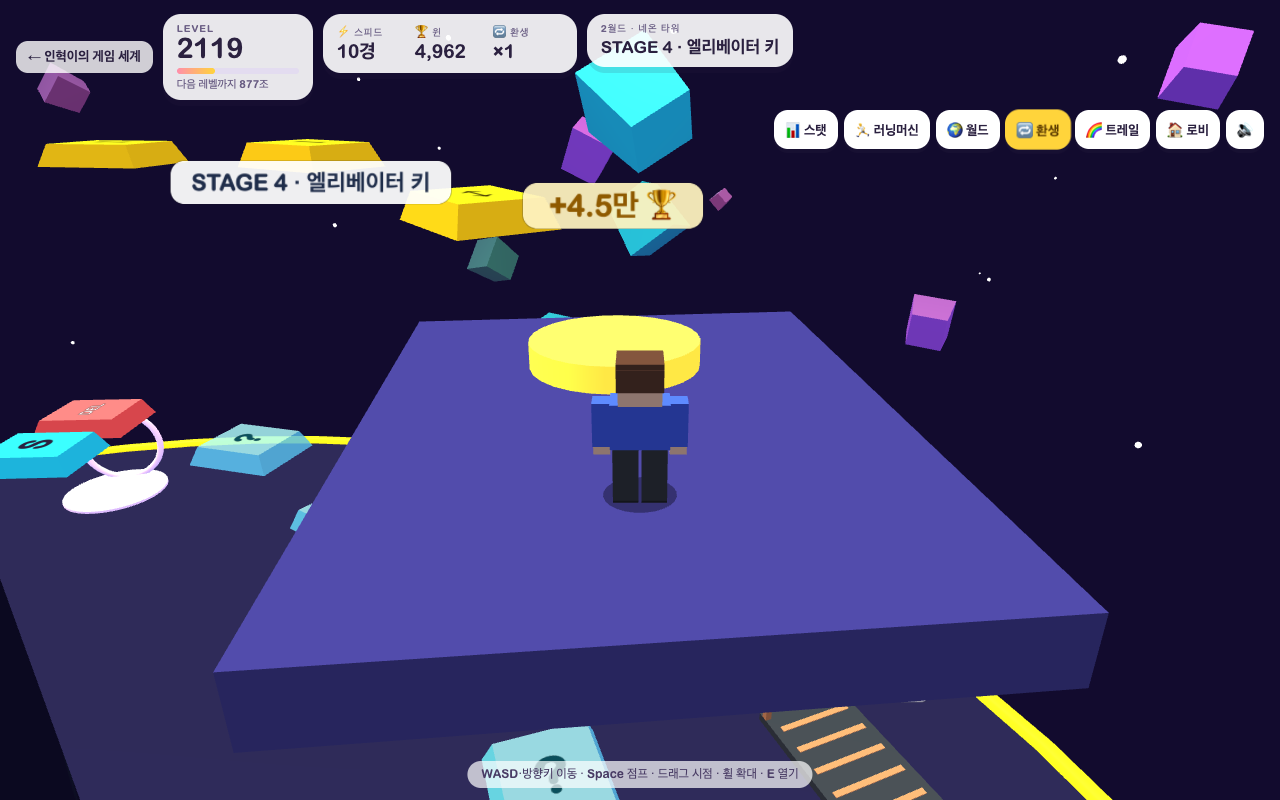
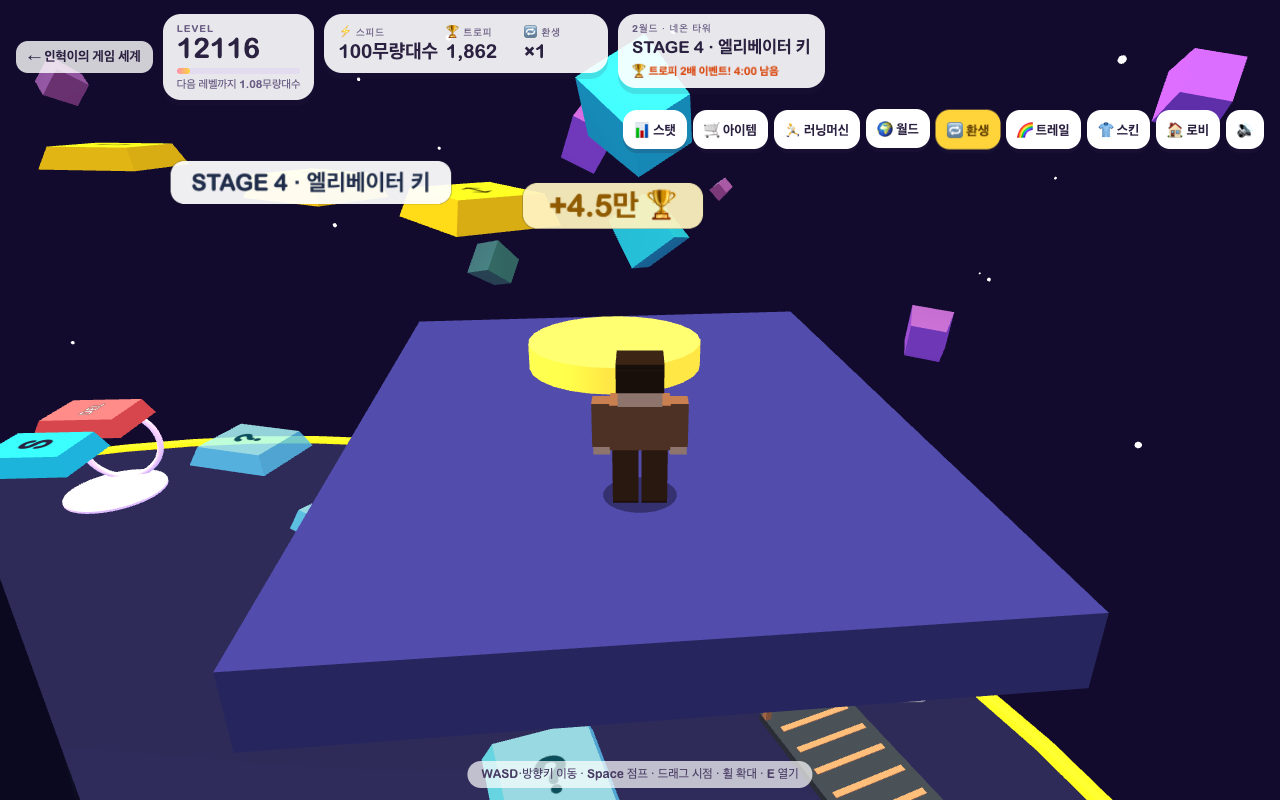
feat: 키캡 타워 업그레이드 — 50월드, 아이템 상점, 스킨, 트로피 2배 이벤트, 광고

diff --git a/games/keycap-tower/main.js b/games/keycap-tower/main.js
@@ -1,5 +1,5 @@
 import './style.css';
-import {WORLDS,STATS,TRAILS,MAX_REBIRTH,getWorld,restore,serialize,fresh,step,respawn,toLobby,warpStage,enterWorld,buyStat,buyTread,buyTrail,rebirth,canRebirth,rebirthReq,rebirthMult,globalMult,stepPower,treadRate,ownsTread,levelOf,needSpeed,runSpeed,onPath,pathS,buttonWait,fmt} from './core.mjs';
+import {WORLDS,STATS,TRAILS,ITEMS,SKINS,MAX_REBIRTH,eventInfo,buyItem,buySkin,itemMult,getWorld,restore,serialize,fresh,step,respawn,toLobby,warpStage,enterWorld,buyStat,buyTread,buyTrail,rebirth,canRebirth,rebirthReq,rebirthMult,globalMult,stepPower,treadRate,ownsTread,levelOf,needSpeed,runSpeed,onPath,pathS,buttonWait,fmt} from './core.mjs';
 import {createWorld} from './world.mjs';
 const $=id=>document.getElementById(id);
 const KEY='keycap-tower-v1';
@@ -9,7 +9,7 @@ let world;
 try{world=createWorld(canvas);}catch(error){$('resume-note').textContent='3D 화면을 열 수 없어요. 브라우저의 하드웨어 가속을 켜고 다시 열어 주세요.';throw error;}
 world.snapCamera(s);
 
-let playing=false,audio,saveTimer=0,toastTimer,hudTimer=0,gateTimer=0,lookIdle=9,onTread=null,treadGain=0,treadTimer=0,zone=null,lockedTread=null;
+let eventShift=0,playing=false,audio,saveTimer=0,toastTimer,hudTimer=0,gateTimer=0,lookIdle=9,onTread=null,treadGain=0,treadTimer=0,zone=null,lockedTread=null;
 function save(){try{localStorage.setItem(KEY,JSON.stringify(serialize(s)));}catch{}}
 function tone(freq,dur=.12,type='square',slide=1,vol=.06){
  if(!s.sound)return;
@@ -43,6 +43,10 @@ function hud(){
  const st=W.stages[s.checkpoint];
  $('stage-name').textContent=!onPath(s)&&s.checkpoint===0?'로비':st?`STAGE ${st.k+1} · ${st.name}`:`👑 ${W.def.name} 정상`;
  $('rebirth-button').classList.toggle('ready',canRebirth(s));
+ const ev=eventInfo(Date.now()/1000+eventShift),mm=Math.floor(ev.remain/60),ss=String(Math.floor(ev.remain%60)).padStart(2,'0');
+ $('event').textContent=ev.active?`🏆 트로피 2배 이벤트! ${mm}:${ss} 남음`:`다음 트로피 2배 이벤트까지 ${mm}:${ss}`;$('event').classList.toggle('on',ev.active);
+ if(ev.active&&s.winBoost===1){sfx.big();toast('🏆 트로피 2배 이벤트 시작! 10분 동안 트로피가 2배',3000);}
+ s.winBoost=ev.boost;
  $('sound').textContent=s.sound?'🔊':'🔇';$('sound').setAttribute('aria-pressed',String(s.sound));$('sound').setAttribute('aria-label',s.sound?'소리 끄기':'소리 켜기');
 }
 hud();
@@ -86,39 +90,50 @@ stickEl.addEventListener('pointerup',endStick);stickEl.addEventListener('pointer
 $('jump').addEventListener('pointerdown',e=>{e.preventDefault();jumpQueued=true;});
 
 // 메뉴
-const TITLES={stat:'📊 스탯',tread:'🏃 러닝머신',world:'🌍 월드',rebirth:'🔁 환생',trail:'🌈 트레일'};
+const TITLES={item:'🛒 아이템 상점',skin:'👕 스킨',stat:'📊 스탯',tread:'🏃 러닝머신',world:'🌍 월드',rebirth:'🔁 환생',trail:'🌈 트레일'};
 let tab='stat';
 const item=(icon,name,sub,button,now=false)=>`<div class="item${now?' now':''}"><div class="icon">${icon}</div><div class="info"><b>${name}</b><span>${sub}</span></div>${button}</div>`;
 const buyButton=(act,cost,label='사기')=>`<button class="buy" data-act="${act}" ${s.wins<cost?'disabled':''}>${label} · ${fmt(cost)}🏆</button>`;
 function renderMenu(){
  const lv=levelOf(s.speed);let h='';
  if(tab==='stat'){
-  h+=`<div class="summary"><div><small>레벨</small><b>${lv}</b></div><div><small>⚡ 스피드</small><b>${fmt(Math.floor(s.speed))}</b></div><div><small>🏆 윈</small><b>${fmt(s.wins)}</b></div><div><small>달리기 빠르기</small><b>${runSpeed(lv,s.stats.run).toFixed(1)}</b></div><div><small>키캡 한 번</small><b>+${fmt(stepPower(s)*WORLDS[s.world].keyMult*globalMult(s))}</b></div><div><small>전체 배수</small><b>×${fmt(globalMult(s))}</b></div></div>`;
+  h+=`<div class="summary"><div><small>레벨</small><b>${lv}</b></div><div><small>⚡ 스피드</small><b>${fmt(Math.floor(s.speed))}</b></div><div><small>🏆 트로피</small><b>${fmt(s.wins)}</b></div><div><small>달리기 빠르기</small><b>${runSpeed(lv,s.stats.run).toFixed(1)}</b></div><div><small>키캡 한 번</small><b>+${fmt(stepPower(s)*WORLDS[s.world].keyMult*globalMult(s))}</b></div><div><small>전체 배수</small><b>×${fmt(globalMult(s))}</b></div></div>`;
   for(const [k,st] of Object.entries(STATS)){const l=s.stats[k],max=l>=st.max;
    h+=item(st.icon,`${st.name} <small>Lv ${l}/${st.max}</small>`,`${st.desc} · ${st.show(st.value(l))}${max?'':` → ${st.show(st.value(l+1))}`}`,max?'<button disabled>최대</button>':buyButton(`stat:${k}`,st.cost(l),'올리기'));}
+ }else if(tab==='item'){
+  const pics={chocolate:'<i></i>'.repeat(9),keycap:'<i>A</i>',bigkeycap:[...'ABCDEFGHIJKL'].map(c=>`<i>${c}</i>`).join('')},cls={일반:'common',에픽:'epic',비밀:'secret'};
+  h+=`<p class="note">아이템을 사 두면 얻는 스피드에 배수가 붙어요. 지금 아이템 배수 ×${fmt(itemMult(s))}</p><div class="shop">`;
+  for(const it of ITEMS){const own=s.items.includes(it.id);
+   h+=`<div class="card ${cls[it.rarity]}"><div class="frame"><div class="rarity">${it.rarity}</div><div class="pic ${it.id}">${pics[it.id]}</div></div><div class="name">${it.name}</div><div class="mult">${it.mult.toFixed(1)}배</div><button class="price${own?' owned':''}" data-act="item:${it.id}" ${own||s.wins<it.cost?'disabled':''}>${own?'보유 중':it.price}</button></div>`;}
+  h+='</div>';
+ }else if(tab==='skin'){
+  h+='<p class="note">트로피로 스킨을 사서 갈아입어요. 한 번 산 스킨은 언제든 다시 입을 수 있어요.</p>';
+  SKINS.forEach((k,i)=>{const own=s.skins.includes(i),on=s.skin===i;
+   h+=item(`<span class="swatch"><i style="background:${k.hair}"></i><i style="background:${k.hoodie}"></i><i style="background:${k.pants}"></i></span>`,`${k.name} 스킨`,own?'가지고 있어요':'트로피로 살 수 있어요',on?'<button disabled>입는 중</button>':own?`<button data-act="skin:${i}">입기</button>`:buyButton(`skin:${i}`,k.cost),on);});
  }else if(tab==='tread'){
-  h+='<p class="note">러닝머신은 로비 건너편에 있어요. 위에 올라서 있기만 하면 스피드가 계속 올라요.</p>';
-  WORLDS.forEach((W,w)=>W.treads.forEach((tr,i)=>{
+  h+=`<p class="note">러닝머신은 로비 건너편에 있어요. 위에 올라서 있기만 하면 스피드가 계속 올라요. 월드마다 세 대씩 있어요.</p>`;
+  WORLDS.forEach((W,w)=>w===s.world&&W.treads.forEach((tr,i)=>{
    const own=ownsTread(s,w,i)&&w<=s.unlocked,here=w===s.world;
    h+=item('🏃',`${tr.name} ×${fmt(tr.mult)}`,`${w+1}월드 · 1초에 +${fmt(treadRate(s,tr))}`,w>s.unlocked?`<button disabled>🔒 ${w+1}월드</button>`:own?`<button disabled>${here?'보유 중':`${w+1}월드에 있어요`}</button>`:buyButton(`tread:${w}:${i}`,tr.cost),here&&own);
   }));
  }else if(tab==='world'){
   WORLDS.forEach((W,w)=>{
    const open=w<=s.unlocked,here=w===s.world;
-   h+=item(W.emoji,`${w+1}월드 · ${W.name}`,`레벨 ${W.req} 필요 · 키캡 ×${fmt(W.keyMult)} · 스테이지 ${W.levels.length}개 · ${s.reached[w]}개 클리어`,here?'<button disabled>지금 여기</button>':open?`<button class="buy" data-act="world:${w}">들어가기</button>`:`<button disabled>🔒 레벨 ${W.req}</button>`,here);
+   if(w>s.unlocked+3&&(w+1)%10)return;
+  h+=item(W.emoji,`${w+1}월드 · ${W.name}`,`레벨 ${W.req} 필요 · 키캡 ×${fmt(W.keyMult)} · 스테이지 ${W.levels.length}개 · ${s.reached[w]}개 클리어`,here?'<button disabled>지금 여기</button>':open?`<button class="buy" data-act="world:${w}">들어가기</button>`:`<button disabled>🔒 레벨 ${W.req}</button>`,here);
   });
   const W=getWorld(s.world);
-  h+=`<p class="note">${s.world+1}월드 순간이동 — 가 본 스테이지부터 다시 올라가요.</p><div class="warps"><button data-act="warp:0">🏠 로비</button>`;
+  h+=`<p class="note">월드는 모두 ${WORLDS.length}개! 지금 ${s.unlocked+1}월드까지 열었어요.</p><p class="note">${s.world+1}월드 순간이동 — 가 본 스테이지부터 다시 올라가요.</p><div class="warps"><button data-act="warp:0">🏠 로비</button>`;
   for(let cp=1;cp<=s.reached[s.world]&&cp<W.stages.length;cp++)h+=`<button data-act="warp:${cp}">STAGE ${cp+1} · ${W.stages[cp].name}</button>`;
   h+='</div><button data-act="reset" class="danger">🗑 처음부터 다시</button>';
  }else if(tab==='rebirth'){
   const max=s.rebirths>=MAX_REBIRTH,req=rebirthReq(s.rebirths);
-  h+=`<p class="big">지금 ×${fmt(rebirthMult(s.rebirths))} ${max?'(최대)':`→ 환생하면 <b>×${fmt(rebirthMult(s.rebirths+1))}</b>`}</p><p class="note">환생하면 스피드와 레벨이 0이 되지만, 얻는 스피드가 영원히 2배가 돼요. 윈·스탯·러닝머신·월드는 그대로예요.</p>`;
+  h+=`<p class="big">지금 ×${fmt(rebirthMult(s.rebirths))} ${max?'(최대)':`→ 환생하면 <b>×${fmt(rebirthMult(s.rebirths+1))}</b>`}</p><p class="note">환생하면 스피드와 레벨이 0이 되지만, 얻는 스피드가 영원히 2배가 돼요. 트로피·스탯·러닝머신·월드는 그대로예요.</p>`;
   if(!max)h+=item('🔁',`${s.rebirths+1}번째 환생`,`레벨 ${req} 필요 · 지금 레벨 ${lv}`,`<button class="buy" data-act="rebirth" ${canRebirth(s)?'':'disabled'}>환생하기</button>`);
  }else{
   h+='<p class="note">트레일을 끼우면 얻는 스피드에 배수가 붙고, 달릴 때 뒤에 빛이 따라와요.</p>';
   TRAILS.forEach((t,i)=>{const own=s.trails.includes(i),on=s.trail===i;
-   h+=item(`<span style="color:${t.color}">●</span>`,`${t.name} ×${t.mult}`,own?'가지고 있어요':'윈으로 살 수 있어요',on?'<button disabled>끼우는 중</button>':own?`<button data-act="trail:${i}">끼우기</button>`:buyButton(`trail:${i}`,t.cost),on);});
+   h+=item(`<span style="color:${t.color}">●</span>`,`${t.name} ×${t.mult}`,own?'가지고 있어요':'트로피로 살 수 있어요',on?'<button disabled>끼우는 중</button>':own?`<button data-act="trail:${i}">끼우기</button>`:buyButton(`trail:${i}`,t.cost),on);});
  }
  $('menu-title').textContent=TITLES[tab];$('menu-body').innerHTML=h;
  for(const b of $('menu').querySelectorAll('.tabs [data-tab]'))b.setAttribute('aria-selected',String(b.dataset.tab===tab));
@@ -133,20 +148,30 @@ $('menu-body').addEventListener('click',e=>{
  if(act==='stat')ok=buyStat(s,a);
  else if(act==='tread')ok=buyTread(s,+a,+c);
  else if(act==='trail')ok=buyTrail(s,+a);
- else if(act==='world'){if(enterWorld(s,+a)){sfx.big();moved(`${WORLDS[+a].emoji} ${+a+1}월드 · ${WORLDS[+a].name}`);}return;}
+ else if(act==='item')ok=buyItem(s,a);
+ else if(act==='skin')ok=buySkin(s,+a);
+ else if(act==='world'){if(enterWorld(s,+a)){sfx.big();moved(`${WORLDS[+a].emoji} ${+a+1}월드 · ${WORLDS[+a].name}`);if((+a+1)%10===0)showAd();}return;}
  else if(act==='warp'){if(warpStage(s,+a)){sfx.checkpoint();moved(+a?`STAGE ${+a+1}부터 다시 올라가요`:'🏠 로비로 돌아왔어요');}return;}
  else if(act==='rebirth'){if(rebirth(s)){sfx.big();flash('good');moved(`🔁 환생! 이제 스피드 ×${fmt(rebirthMult(s.rebirths))}`);world.burst(s.x,s.y+2,s.z,90);}return;}
  else if(act==='reset'){$('menu').close();$('reset-dialog').showModal();return;}
  if(ok){sfx.buy();save();hud();renderMenu();}else sfx.no();
 });
+// 광고: 월드 10개를 넘을 때마다(10·20·30·40·50월드에 들어갈 때) 뜨고, 10초 뒤에 X로 닫는다.
+let adTimer;
+function showAd(){
+ const b=$('ad-close');let left=10;keys.clear();b.disabled=true;b.textContent=`${left}초뒤에 X`;$('ad').showModal();clearInterval(adTimer);
+ adTimer=setInterval(()=>{left--;if(left>0)b.textContent=`${left}초뒤에 X`;else{clearInterval(adTimer);b.disabled=false;b.textContent='X';}},1000);
+}
+$('ad-close').addEventListener('click',()=>{$('ad').close();canvas.focus();});
+$('ad').addEventListener('cancel',e=>{if($('ad-close').disabled)e.preventDefault();});
 $('cancel-reset').addEventListener('click',()=>$('reset-dialog').close());
 $('confirm-reset').addEventListener('click',()=>{const sound=s.sound;s=fresh();s.sound=sound;world.snapCamera(s);save();hud();$('reset-dialog').close();toast('처음부터 다시 시작! 1월드 로비');});
 $('home').addEventListener('click',()=>{toLobby(s);world.snapCamera(s);hud();save();toast('🏠 로비로 돌아왔어요');canvas.focus();});
 $('sound').addEventListener('click',()=>{s.sound=!s.sound;hud();save();if(s.sound)tone(660,.1,'triangle');});
 // 로비 시설 앞이나 잠긴 러닝머신 위에서 뜨는 버튼
-const ZONE_TEXT={stat:'📊 스탯 상점 열기',world:'🌍 월드 포탈 열기',rebirth:'🔁 환생의 제단 열기'};
+const ZONE_TEXT={item:'🛒 아이템 상점 열기',stat:'📊 스탯 상점 열기',world:'🌍 월드 포탈 열기',rebirth:'🔁 환생의 제단 열기'};
 $('prompt').addEventListener('click',()=>{
- if(lockedTread!=null){const tr=WORLDS[s.world].treads[lockedTread];if(buyTread(s,s.world,lockedTread)){sfx.buy();toast(`${tr.name} 구매! 올라서면 스피드 ×${fmt(tr.mult)}`);save();hud();}else{sfx.no();toast(`윈이 모자라요 · ${fmt(tr.cost)}🏆 필요`);}}
+ if(lockedTread!=null){const tr=WORLDS[s.world].treads[lockedTread];if(buyTread(s,s.world,lockedTread)){sfx.buy();toast(`${tr.name} 구매! 올라서면 스피드 ×${fmt(tr.mult)}`);save();hud();}else{sfx.no();toast(`트로피가 모자라요 · ${fmt(tr.cost)}🏆 필요`);}}
  else if(zone)openMenu(zone);
  canvas.focus();
 });
@@ -175,7 +200,7 @@ function handle(ev){
    if(e.crown){sfx.big();toast(`👑 ${WORLDS[s.world].name} 정상 도착! +${fmt(e.gain)}🏆`,3000);}
    save();
   }
-  else if(e.t==='checkpoint'){sfx.checkpoint();toast(`✓ STAGE ${e.cp} 클리어! 노란 버튼을 밟아 윈을 받아요`,2200);save();}
+  else if(e.t==='checkpoint'){sfx.checkpoint();toast(`✓ STAGE ${e.cp} 클리어! 노란 버튼을 밟아 트로피를 받아요`,2200);save();}
   else if(e.t==='death'){sfx.death();flash('death');world.snapCamera(s);toast({del:'앗! DEL 키를 밟았어요',spinner:'앗! 빨간 막대에 맞았어요',chaser:'ESC 괴물에게 잡혔어요!',fall:'앗! 떨어졌어요'}[e.why],1300);}
   else if(e.t==='gate'&&gateTimer<=0){gateTimer=1.5;sfx.no();toast(`🔒 레벨 ${e.req}이 되어야 지나갈 수 있어요 · 러닝머신에서 스피드를 올려요`,2200);}
   else if(e.t==='chase'){sfx.chase();toast('ESC 괴물이 쫓아와요! 달려요!',1500);}
@@ -210,5 +235,6 @@ window.keycap_tower_debug={
  set(patch){Object.assign(s,patch);hud();},
  warp(w,cp){s.unlocked=Math.max(s.unlocked,w);s.world=w;s.reached[w]=Math.max(s.reached[w],cp);s.checkpoint=cp;respawn(s);world.snapCamera(s);hud();},
  put(x,y,z){s.x=x;s.y=y;s.z=z;s.vy=0;s.lastGroundY=y;world.snapCamera(s);},
+ ad:showAd,event(shift){eventShift=shift;hud();},
  tread(i){const o=getWorld(s.world).objects.find(o=>o.type==='tread'&&o.index===i);s.x=o.x;s.z=o.z;s.y=o.top;s.lastGroundY=o.top;s.facing=Math.atan2(o.tx,o.tz);world.snapCamera(s);},
 };

diff --git a/games/keycap-tower/index.html b/games/keycap-tower/index.html
@@ -5,11 +5,11 @@
 <header class="hud">
  <a class="back" href="/" target="_top">← 인혁이의 게임 세계</a>
  <div class="level-card"><small>LEVEL</small><b id="level">0</b><div class="progress" aria-hidden="true"><i id="level-bar"></i></div><span id="level-next">다음 레벨까지 5</span></div>
- <div class="stats"><div><small>⚡ 스피드</small><b id="speed">0</b></div><div><small>🏆 윈</small><b id="wins">0</b></div><div><small>🔁 환생</small><b id="rebirths">×1</b></div></div>
- <div class="stage-card"><small id="world-name">1월드 · 캔디 타워</small><b id="stage-name">로비</b></div>
+ <div class="stats"><div><small>⚡ 스피드</small><b id="speed">0</b></div><div><small>🏆 트로피</small><b id="wins">0</b></div><div><small>🔁 환생</small><b id="rebirths">×1</b></div></div>
+ <div class="stage-card"><small id="world-name">1월드 · 캔디 타워</small><b id="stage-name">로비</b><span id="event">다음 트로피 2배 이벤트까지 —</span></div>
  <nav class="actions" aria-label="메뉴">
-  <button data-tab="stat">📊 스탯</button><button data-tab="tread">🏃 러닝머신</button><button data-tab="world">🌍 월드</button><button data-tab="rebirth" id="rebirth-button">🔁 환생</button><button data-tab="trail">🌈 트레일</button>
-  <button id="home">🏠 로비</button><button id="sound" aria-pressed="true" aria-label="소리 끄기">🔊</button>
+  <button data-tab="stat">📊<span> 스탯</span></button><button data-tab="item">🛒<span> 아이템</span></button><button data-tab="tread">🏃<span> 러닝머신</span></button><button data-tab="world">🌍<span> 월드</span></button><button data-tab="rebirth" id="rebirth-button">🔁<span> 환생</span></button><button data-tab="trail">🌈<span> 트레일</span></button><button data-tab="skin">👕<span> 스킨</span></button>
+  <button id="home">🏠<span> 로비</span></button><button id="sound" aria-pressed="true" aria-label="소리 끄기">🔊</button>
  </nav>
 </header>
 <div id="pops" aria-hidden="true"></div>
@@ -20,26 +20,32 @@
 <button id="jump" aria-label="점프">점프</button>
 <section id="start" class="overlay">
  <div class="panel">
-  <p class="eyebrow">KEYCAP TOWER · 4 WORLDS</p>
+  <p class="eyebrow">KEYCAP TOWER · 50 WORLDS</p>
   <h1>키캡 타워</h1>
-  <p class="lead">키캡을 밟을 때마다 스피드 +1! 빨라질수록 더 높은 타워 문이 열려요.</p>
+  <p class="lead">스피드를 올리고 트로피를 얻어서 아이템이랑 트레일을 사고, 5월드를 깨고 50월드까지 깨는 거야!</p>
   <ul class="legend">
    <li><i style="background:#8d5a3b"></i>키캡을 밟으면 스피드가 올라요. 높은 스테이지일수록 많이!</li>
    <li><i style="background:#343a40"></i>러닝머신 위에 서 있으면 스피드가 계속 올라요</li>
-   <li><i style="background:#ffd43b"></i>노란 버튼을 밟으면 윈 🏆 — 윈으로 스탯을 올려요</li>
+   <li><i style="background:#ffd43b"></i>노란 버튼을 밟으면 트로피 🏆 — 트로피로 스탯·아이템·스킨을 사요</li>
    <li><i style="background:#fa5252"></i>빨간 DEL 키, 빨간 막대, ESC 괴물은 피해요</li>
    <li><i style="background:#66e0ff"></i>하늘색 ? 키는 밟으면 곧 사라져요</li>
-   <li><i style="background:#b197fc"></i>레벨 120·400·1000이 되면 2·3·4월드가 열려요</li>
+   <li><i style="background:#b197fc"></i>레벨이 오르면 다음 월드가 열려요. 50월드까지! 1시간마다 트로피 2배 이벤트</li>
   </ul>
   <button id="play" class="primary">시작하기 ▶</button>
   <p class="small" id="resume-note"></p>
  </div>
 </section>
 <dialog id="menu" aria-labelledby="menu-title">
- <div class="tabs" role="tablist"><button data-tab="stat">📊 스탯</button><button data-tab="tread">🏃 러닝머신</button><button data-tab="world">🌍 월드</button><button data-tab="rebirth">🔁 환생</button><button data-tab="trail">🌈 트레일</button><button id="menu-close" aria-label="닫기">✕</button></div>
+ <div class="tabs" role="tablist"><button data-tab="stat">📊 스탯</button><button data-tab="item">🛒 아이템</button><button data-tab="tread">🏃 러닝머신</button><button data-tab="world">🌍 월드</button><button data-tab="rebirth">🔁 환생</button><button data-tab="trail">🌈 트레일</button><button data-tab="skin">👕 스킨</button><button id="menu-close" aria-label="닫기">✕</button></div>
  <h2 id="menu-title">스탯</h2>
  <div id="menu-body"></div>
 </dialog>
-<dialog id="reset-dialog" aria-labelledby="reset-title"><p class="eyebrow">RESET</p><h2 id="reset-title">처음부터 다시 할까요?</h2><p>스피드·윈·스탯·러닝머신·월드가 모두 지워지고 1월드 로비에서 다시 시작해요. 되돌릴 수 없어요.</p><div class="row"><button id="cancel-reset" autofocus>취소</button><button id="confirm-reset" class="danger">모두 지우기</button></div></dialog>
+<dialog id="ad" aria-label="광고">
+ <button id="ad-close" disabled>10초뒤에 X</button>
+ <div class="ad-pad" aria-hidden="true">🎮</div>
+ <p class="ad-text">40개의 게임을 무료로 플레이하세요!<br>9개의 종류가 있습니다!</p>
+ <a class="ad-link" href="https://seonn.dev" target="_blank" rel="noopener">seonn.dev!</a>
+</dialog>
+<dialog id="reset-dialog" aria-labelledby="reset-title"><p class="eyebrow">RESET</p><h2 id="reset-title">처음부터 다시 할까요?</h2><p>스피드·트로피·스탯·아이템·스킨·러닝머신·월드가 모두 지워지고 1월드 로비에서 다시 시작해요. 되돌릴 수 없어요.</p><div class="row"><button id="cancel-reset" autofocus>취소</button><button id="confirm-reset" class="danger">모두 지우기</button></div></dialog>
 <script type="module" src="main.js"></script>
 </body></html>

diff --git a/games/keycap-tower/style.css b/games/keycap-tower/style.css
@@ -74,3 +74,28 @@ h2{margin:4px 0 12px;font-size:26px}
  h1{font-size:38px}.panel{padding:20px 16px}.legend{font-size:13px}
  .summary{grid-template-columns:repeat(2,1fr)}
 }
+#event{display:block;font-size:11px;color:#6b5f85;margin-top:3px;font-variant-numeric:tabular-nums;white-space:nowrap}
+#event.on{color:#d9480f;font-weight:700;animation:pulse 1s infinite;transform-origin:left}
+/* 아이템 상점: 그림대로 세 칸 */
+.shop{display:grid;grid-template-columns:repeat(3,1fr);border:3px solid #2b2140;border-radius:14px;overflow:hidden;margin-bottom:10px}
+.shop .card{padding:12px 8px 14px;text-align:center;border-left:3px solid #2b2140;display:flex;flex-direction:column;align-items:center;gap:6px}
+.shop .card:first-child{border-left:0}
+.shop .frame{border:3px solid #2b2140;border-radius:8px;padding:6px 8px 10px;width:100%;max-width:130px;background:#fff}
+.shop .rarity{font-weight:700;font-size:15px;margin-bottom:6px}
+.shop .card.common .rarity{color:#868e96}.shop .card.epic .rarity{color:#9c36b5}.shop .card.secret .rarity{color:#e03131}
+.shop .pic{display:grid;gap:2px;margin:0 auto;width:72px;height:84px}
+.pic.chocolate{grid-template-columns:repeat(3,1fr);background:#5c3317;padding:3px;border-radius:5px}.pic.chocolate i{background:#8d5a3b;border-radius:2px}
+.pic.keycap{place-items:center}.pic.keycap i{width:60px;height:60px;border-radius:10px;background:#f1edf8;border:3px solid #2b2140;border-bottom-width:8px;display:grid;place-items:center;font-style:normal;font-weight:700;font-size:28px}
+.pic.bigkeycap{grid-template-columns:repeat(3,1fr)}.pic.bigkeycap i{border:2px solid #2b2140;border-bottom-width:4px;border-radius:4px;background:#ffe066;display:grid;place-items:center;font-style:normal;font-weight:700;font-size:11px}
+.shop .name{font-weight:700;font-size:16px}.shop .mult{font-size:15px}
+.shop .price{border:3px solid #2b2140;border-radius:6px;background:#ffd43b;color:#2b2140;box-shadow:none;padding:6px 8px;font-size:14px;white-space:nowrap}
+.shop .price:disabled{background:#e9ecef}.shop .price.owned{background:#b2f2bb;opacity:1}
+.swatch{display:inline-grid;grid-template-rows:9px 14px 10px;width:22px;border-radius:5px;overflow:hidden;border:2px solid #2b2140}
+/* 광고 */
+#ad{max-width:520px;padding:64px 24px 34px;border:4px solid #2b2140;border-radius:18px;text-align:center}
+#ad-close{position:absolute;top:14px;right:14px;border:3px solid #2b2140;border-radius:6px;box-shadow:none;background:#fff;padding:7px 16px;font-size:16px;opacity:1}
+#ad-close:disabled{color:#2b2140;cursor:wait}
+.ad-pad{font-size:64px;line-height:1}
+.ad-text{font-size:19px;font-weight:700;line-height:1.6;margin:10px 0 18px}
+.ad-link{font-size:44px;font-weight:700;color:#2b2140;text-decoration:none;letter-spacing:1px}.ad-link:hover{text-decoration:underline}
+@media (max-width:760px){.actions button span{display:none}.actions button{font-size:16px;padding:6px 9px}#event{font-size:10px}.shop .pic{width:56px;height:66px}.pic.keycap i{width:46px;height:46px;font-size:22px}.shop .name{font-size:14px}.shop .price{font-size:12px;padding:5px 4px}.ad-link{font-size:34px}}

diff --git a/src/app/play/keycap-tower/page.tsx b/src/app/play/keycap-tower/page.tsx
@@ -2,7 +2,7 @@ import type { Metadata } from "next";
 
 export const metadata: Metadata = {
   title: "키캡 타워 · KEYCAP TOWER",
-  description: "키캡을 밟을 때마다 스피드 +1! 러닝머신과 스탯으로 빨라져서 네 개 월드의 3D 키캡 타워를 올라가요.",
+  description: "키캡을 밟을 때마다 스피드 +1! 트로피로 아이템·스킨·트레일을 사고 50개 월드의 3D 키캡 타워를 올라가요.",
 };
 
 export default function KeycapTowerPage() {

diff --git a/games/keycap-tower/ANALYSIS.md b/games/keycap-tower/ANALYSIS.md
@@ -42,3 +42,12 @@
 - [+1 Speed Keyboard Escape Wiki](https://speedkeyboardescape.wiki/)
 - [나무위키 +1 Speed Keyboard Escape](https://namu.wiki/w/+1%20Speed%20Keyboard%20Escape%20|%20Candy%20&%20Chocolate)
 - [Game Rant 공략](https://gamerant.com/roblox-1-speed-keyboard-escape-how-get-wins-fast/)
+
+## 업그레이드 (2026-10-05, 인혁이 손글씨 계획)
+
+- **스킨**: 트로피로 사서 갈아입는 스킨 8가지.
+- **트로피 2배 이벤트**: 1시간마다 10분 동안(매 정각부터) 노란 버튼과 황금 키캡의 트로피가 2배.
+- **아이템 상점**: 일반 초콜릿 1.5배(3.0K트로피), 에픽 키캡 3.0배(100K트로피), 비밀 큰 키캡 10.0배(1.0M트로피). 사 두면 얻는 스피드에 곱해진다.
+- **월드 50개**: 5~50월드는 규칙으로 만든다. 월드마다 레벨 문 +3000(5월드 5000, 6월드 8000 … 50월드 140000), 키캡·러닝머신 배수 ×11, 트로피 ×10. 스테이지는 7개에서 12개까지 늘어 타워가 높아진다.
+- **광고**: 10·20·30·40·50월드에 들어갈 때 seonn.dev 광고가 뜨고 "10초뒤에 X" 버튼은 10초 뒤에 눌린다.
+- "윈"은 "트로피"로 부른다.
